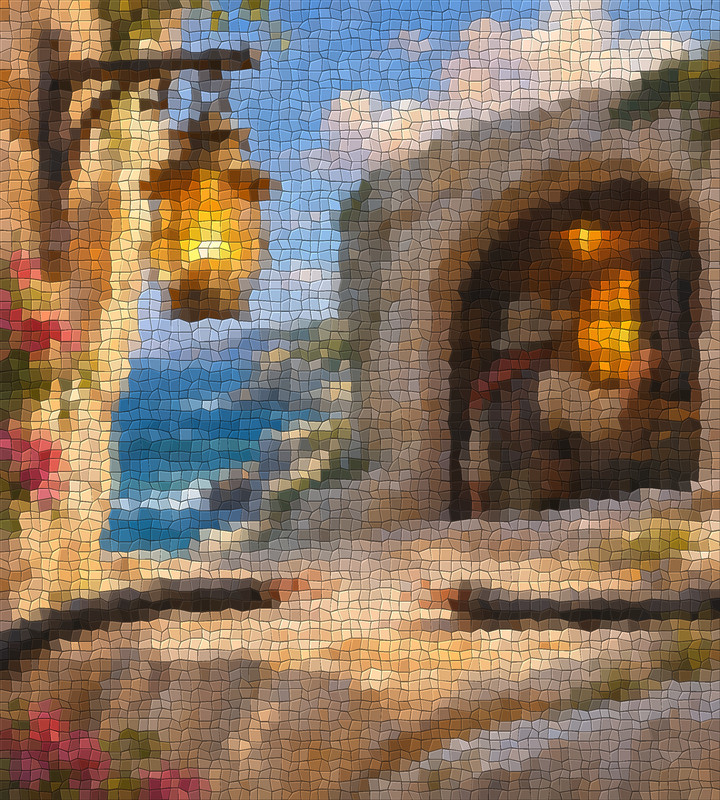
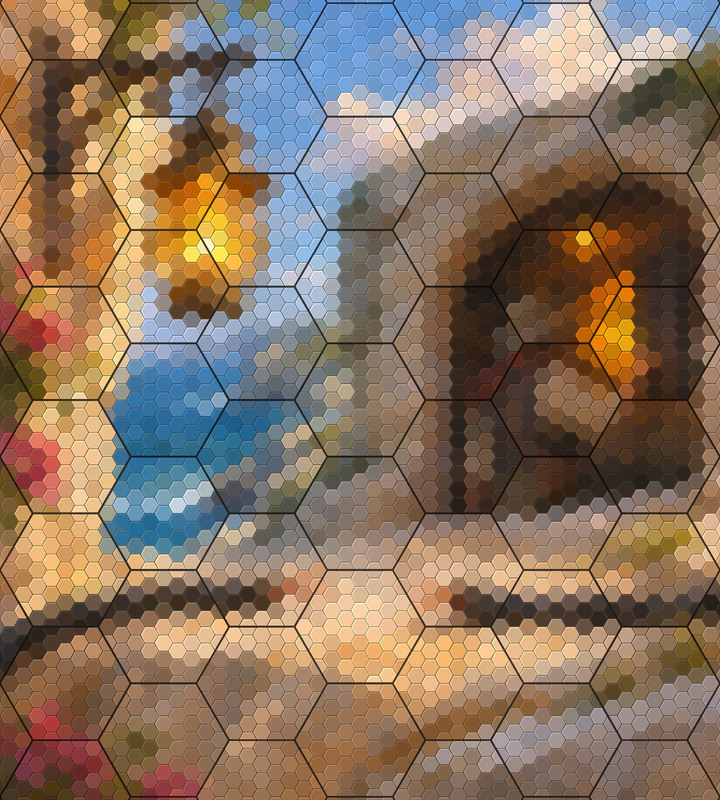
Pave the play mosaic with hexagonal stones cut to each cell
Stones are flat-top hexagons registered to the board's cells, seven to
a cell radius, with a thin dark joint between cells so the grid stays
countable over the picture.

diff --git a/games/relic-rush/tools/prepare_story_mosaics.py b/games/relic-rush/tools/prepare_story_mosaics.py
@@ -1,13 +1,15 @@
 #!/usr/bin/env python3
 """Register paintings for mosaic reveals and verify the decoded runtime images.
 
-A picture with a "mosaic" entry also gets a tesserae version for play: the
-painting is cut into small, slightly irregular stone tiles, each a single
-colour, set in dark grout. The finished painting replaces it on the win.
+A picture with a "mosaic" entry also gets a stone version for play: every
+board cell is paved with small flat-top hexagonal stones, each a single
+colour, cut to fit the cell, with a thin dark joint between cells. The
+finished painting replaces it on the win.
 """
 import argparse
 from io import BytesIO
 import json
+import math
 from pathlib import Path
 import random
 
@@ -15,40 +17,67 @@ from PIL import Image, ImageChops, ImageDraw, ImageEnhance, ImageFilter, ImageOp
 
 ROOT = Path(__file__).resolve().parents[1]
 SUPERSAMPLE = 3
+ROOT3 = math.sqrt(3)
 
 
-def tesserae(image, tile, grout, jitter, seed):
-    """Cut `image` into jittered quads of about `tile` pixels with `grout` pixels between them."""
+def hexagon(cx, cy, radius):
+    return [(cx + radius * math.cos(k * math.pi / 3), cy + radius * math.sin(k * math.pi / 3)) for k in range(6)]
+
+
+def in_hexagon(dx, dy, radius):
+    dx, dy = abs(dx), abs(dy)
+    return dy <= ROOT3 / 2 * radius and ROOT3 * dx + dy <= ROOT3 * radius
+
+
+def hex_stones(image, cells_across, per_cell, grout, joint, seed):
+    """Pave each board cell of `image` with hexagonal stones.
+
+    The runtime lays the picture centred across a board `cells_across` cell
+    radii wide, so a cell's radius here is the width over that. Stones are
+    `per_cell` to a cell radius, which puts a stone on every cell centre and,
+    when per_cell % 3 == 1, a stone corner on every cell corner.
+    """
     rng = random.Random(seed)
     w, h = image.size
-    cols, rows = round(w / tile), round(h / tile)
-    tw, th = w / cols, h / rows
-    stones = image.resize((cols, rows), Image.Resampling.BOX).load()   # each stone's average colour
-    # Grout follows the painting's local tone, so seams never read as a black net.
-    bed = ImageEnhance.Brightness(image.filter(ImageFilter.GaussianBlur(tile))).enhance(.5)
-    canvas = bed.resize((w * SUPERSAMPLE, h * SUPERSAMPLE), Image.Resampling.BILINEAR)
-    draw = ImageDraw.Draw(canvas)
-    corner = [[(c * tw + (rng.uniform(-jitter, jitter) * tw if 0 < c < cols else 0),
-                r * th + (rng.uniform(-jitter, jitter) * th if 0 < r < rows else 0))
-               for c in range(cols + 1)] for r in range(rows + 1)]
+    big = w / cells_across
+    small = big / per_cell
+    soft = image.filter(ImageFilter.GaussianBlur(small * .55)).load()   # a stone's average colour
+    bed = image.filter(ImageFilter.GaussianBlur(small * 2))
+    canvas = ImageEnhance.Brightness(bed).enhance(.3).resize((w * SUPERSAMPLE, h * SUPERSAMPLE))   # joints
+    grouted = ImageEnhance.Brightness(bed).enhance(.55)
+    reach = math.ceil(max(w, h) / big)
+    tile_w, tile_h = math.ceil(2 * big) + 4, math.ceil(ROOT3 * big) + 4
+    for q in range(-reach, reach + 1):
+        for r in range(-reach, reach + 1):
+            cx, cy = w / 2 + 1.5 * big * q, h / 2 + ROOT3 * big * (r + q / 2)
+            if not (-big < cx < w + big and -big < cy < h + big):
+                continue
+            left, top = math.floor(cx - big) - 2, math.floor(cy - ROOT3 / 2 * big) - 2
+            box = (left, top, left + tile_w, top + tile_h)
+            tile = grouted.crop(box).resize((tile_w * SUPERSAMPLE, tile_h * SUPERSAMPLE))
+            draw = ImageDraw.Draw(tile)
 
-    def quad(points, inset, shift=0):
-        cx, cy = sum(p[0] for p in points) / 4, sum(p[1] for p in points) / 4
-        out = []
-        for x, y in points:
-            dx, dy = x - cx, y - cy
-            k = max(0, 1 - inset / max(1e-6, (dx * dx + dy * dy) ** .5))
-            out.append(((cx + dx * k + shift) * SUPERSAMPLE, (cy + dy * k + shift) * SUPERSAMPLE))
-        return out
+            def local(points, shift=0):
+                return [((x - left + shift) * SUPERSAMPLE, (y - top + shift) * SUPERSAMPLE) for x, y in points]
 
-    for r in range(rows):
-        for c in range(cols):
-            points = [corner[r][c], corner[r][c + 1], corner[r + 1][c + 1], corner[r + 1][c]]
-            shade = rng.uniform(.95, 1.05)   # hand-cut stones never match exactly
-            base = tuple(min(255, round(v * shade)) for v in stones[c, r])
-            lit = tuple(min(255, round(v * 1.14 + 8)) for v in base)
-            draw.polygon(quad(points, grout * .7), fill=lit)              # a lit upper-left edge
-            draw.polygon(quad(points, grout * .7 + .8, .45), fill=base)   # the stone's face
+            for a in range(-per_cell - 1, per_cell + 2):
+                for b in range(-per_cell - 1, per_cell + 2):
+                    dx, dy = 1.5 * small * a, ROOT3 * small * (b + a / 2)
+                    if not in_hexagon(dx, dy, big + small):
+                        continue
+                    # A stone cut by the cell's edge takes its colour from the part inside.
+                    pull = 0 if in_hexagon(dx, dy, big - small) else .5 * small / max(1e-6, math.hypot(dx, dy))
+                    sx = min(w - 1, max(0, round(cx + dx * (1 - pull))))
+                    sy = min(h - 1, max(0, round(cy + dy * (1 - pull))))
+                    shade = rng.uniform(.95, 1.05)   # hand-cut stones never match exactly
+                    base = tuple(min(255, round(v * shade)) for v in soft[sx, sy])
+                    lit = tuple(min(255, round(v * 1.12 + 8)) for v in base)
+                    face = small - grout / ROOT3
+                    draw.polygon(local(hexagon(cx + dx, cy + dy, face)), fill=lit)              # a lit upper-left edge
+                    draw.polygon(local(hexagon(cx + dx, cy + dy, face - .8), .4), fill=base)   # the stone's face
+            mask = Image.new("L", tile.size, 0)
+            ImageDraw.Draw(mask).polygon(local(hexagon(cx, cy, big - joint / ROOT3)), fill=255)
+            canvas.paste(tile, (left * SUPERSAMPLE, top * SUPERSAMPLE), mask)
     return canvas.resize((w, h), Image.Resampling.LANCZOS)
 
 
@@ -84,7 +113,8 @@ def main():
         settle(path, encode(image), args.check, name)
         cut = mosaic.get("mosaic")
         if cut:
-            stones = tesserae(image, cut["tile"], cut["grout"], cut["jitter"], cut["seed"])
+            stones = hex_stones(image, cut["cells_across"], cut["stones_per_cell"], cut["grout"], cut["joint"],
+                                cut["seed"])
             settle(ROOT / cut["runtime"], encode(stones), args.check, name + " mosaic")
         print(f"{name}: {image.width}×{image.height} authored painting")
 

diff --git a/games/relic-rush/docs/asset-catalogue.md b/games/relic-rush/docs/asset-catalogue.md
@@ -33,7 +33,7 @@ The [front-facing carved hex stones](../../../art/match3-blockers/source.png) us
 
 | Asset | Rule meaning and states | Source and runtime |
 | --- | --- | --- |
-| `reveal-08` | Board 8, The Broken Cable. Unrestored cells show the board face. Restored cells uncover a stone-mosaic cut of a continuous storybook painting of the camp lamp, its severed relay cable, and a keeper operating the tide-room shutter; the flat stones keep the pieces readable. A notice appears at half restored. On the win the pieces fade, the painting itself fades in over the mosaic and holds for 1.2 seconds before the first-clear exchange. Replays show the mosaic throughout, without the notice, the fade or the hold. | Built-in ImageGen [master](../art/story-pictures/broken-relay.png) and [prompt](../art/story-pictures/broken-relay.prompt.txt). Runtime `data/reveal-08.jpg` (painting) and `data/reveal-08-mosaic.jpg` (play), both written by `python3 games/relic-rush/tools/prepare_story_mosaics.py`; the mosaic is the registered painting cut into jittered single-colour stones (`mosaic` in the manifest: 10 px stones, 1.1 px grout, seed 8). |
+| `reveal-08` | Board 8, The Broken Cable. Unrestored cells show the board face. Restored cells uncover a hexagonal stone-mosaic cut of a continuous storybook painting of the camp lamp, its severed relay cable, and a keeper operating the tide-room shutter; the flat stones keep the pieces readable and the joints keep the cells countable. A notice appears at half restored. On the win the pieces fade, the painting itself fades in over the mosaic and holds for 1.2 seconds before the first-clear exchange. Replays show the mosaic throughout, without the notice, the fade or the hold. | Built-in ImageGen [master](../art/story-pictures/broken-relay.png) and [prompt](../art/story-pictures/broken-relay.prompt.txt). Runtime `data/reveal-08.jpg` (painting) and `data/reveal-08-mosaic.jpg` (play), both written by `python3 games/relic-rush/tools/prepare_story_mosaics.py`; the mosaic paves every board cell of the registered painting with flat-top hexagonal single-colour stones cut to the cell, with a thin dark joint between cells (`mosaic` in the manifest: seven stones to a cell radius, 1 px grout, 2.2 px joint, seed 8). It assumes the picture is laid centred across a board 11 cell radii wide, as on board 8. |
 
 Run `python3 games/relic-rush/tools/prepare_story_mosaics.py` to center-crop
 and scale the 1190×1322 master to 720×800 with Lanczos, then encode it as
